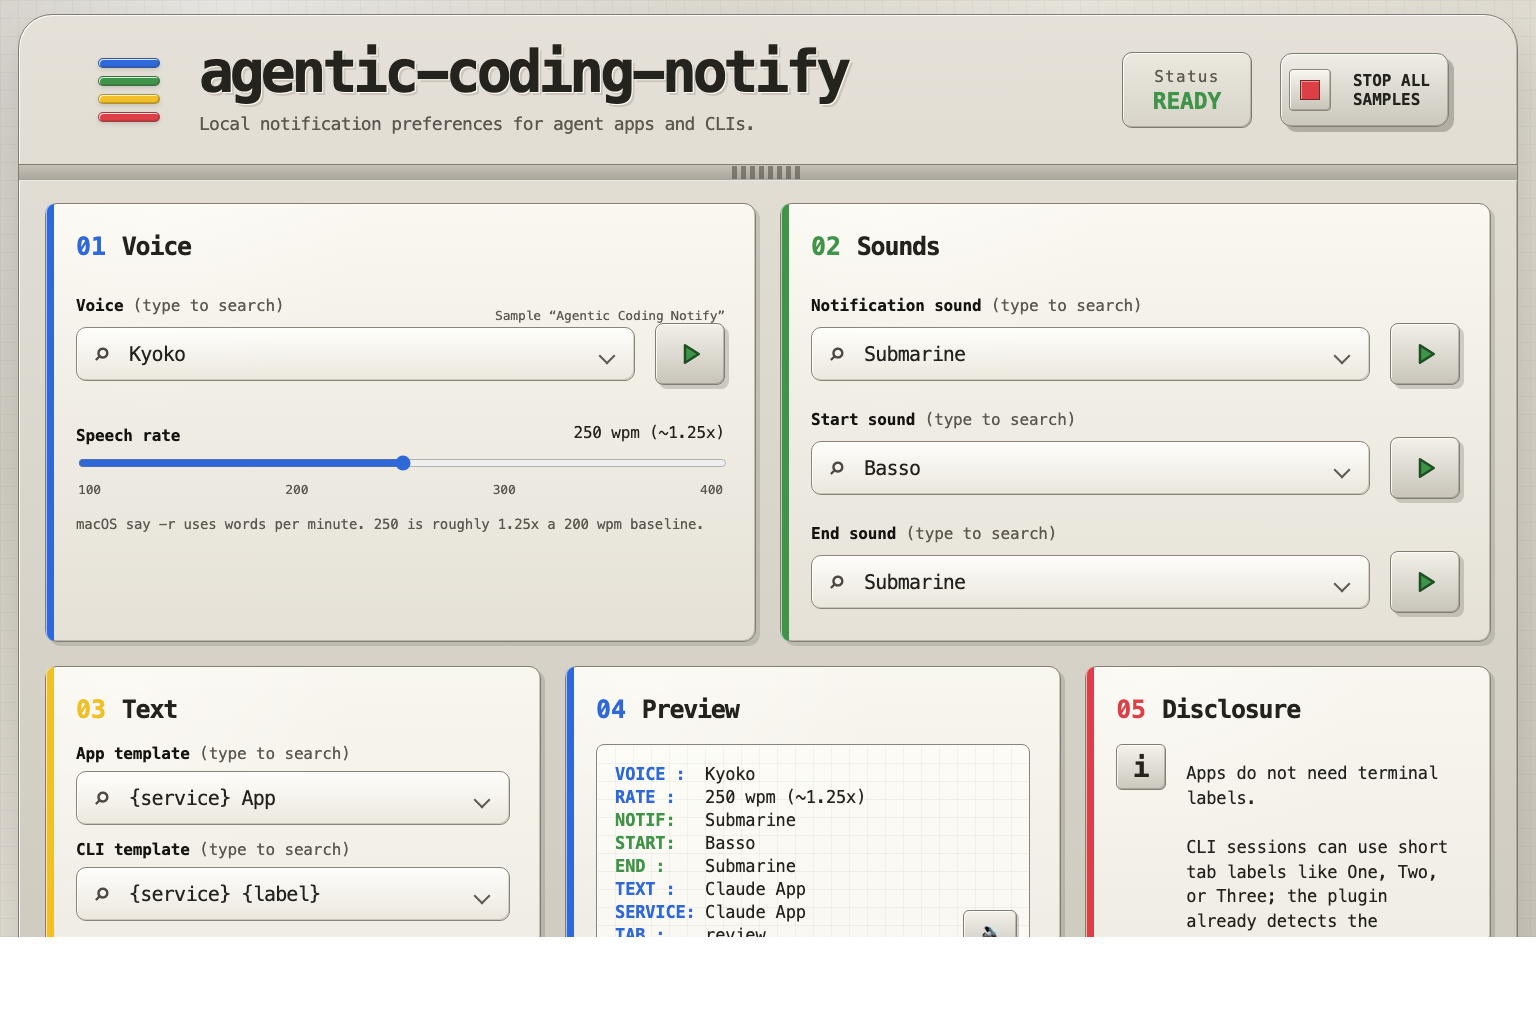
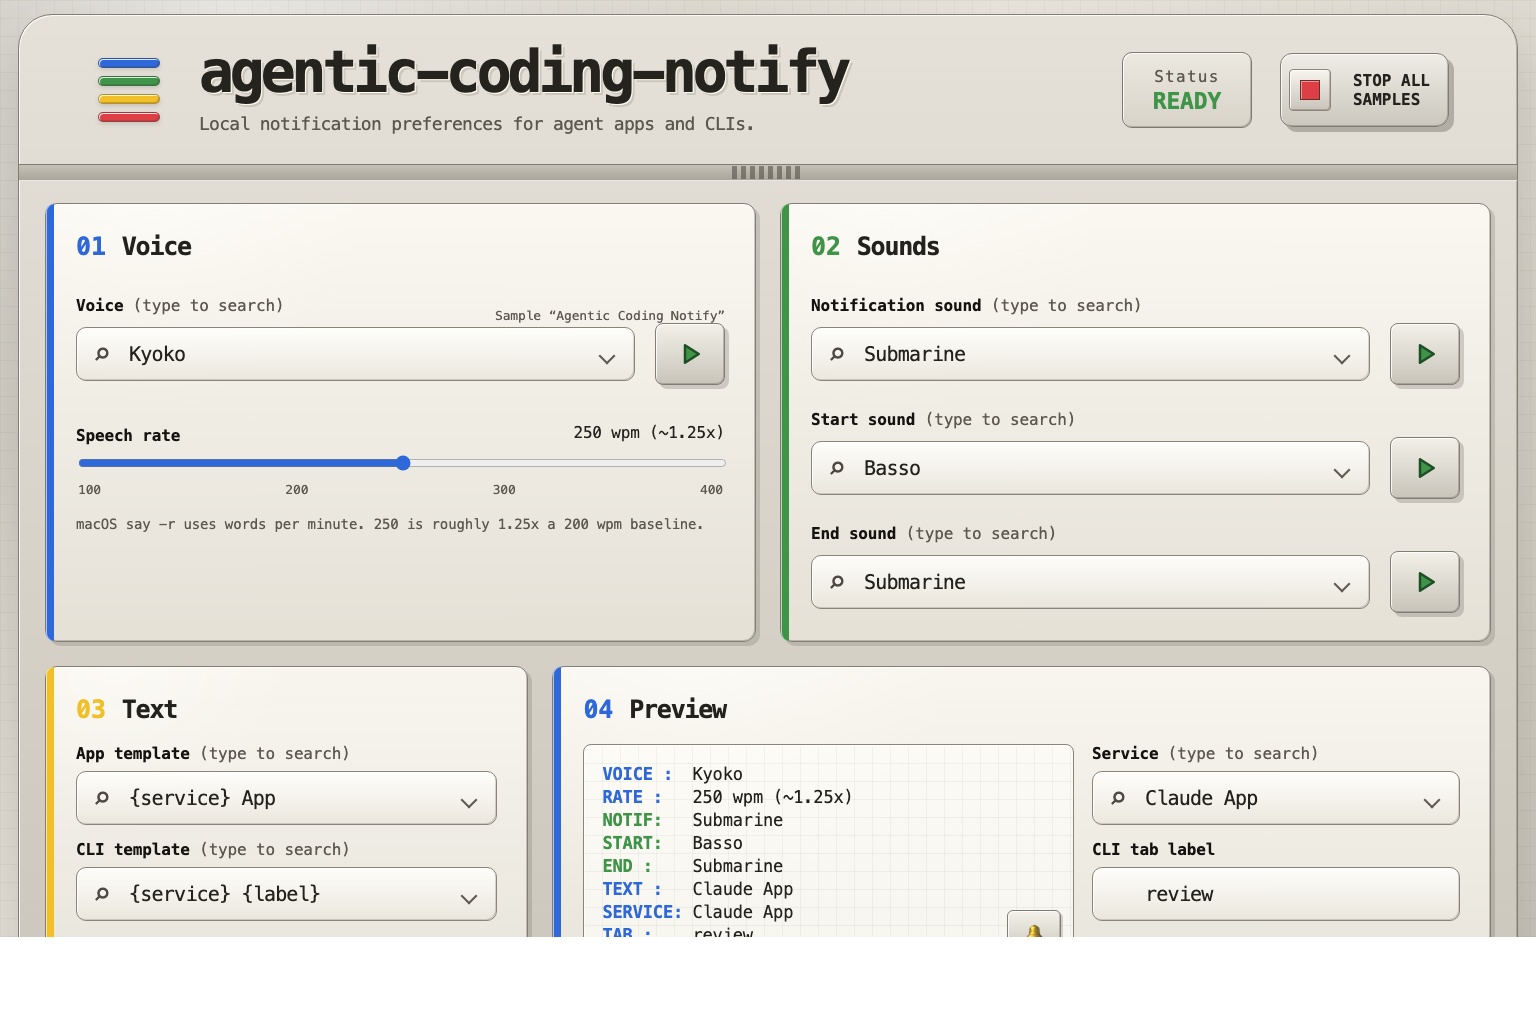
Fix notify preview layout

Changed region(s): [[0.625, 0.625, 0.9375, 0.9375], [0.3125, 0.625, 0.5625, 0.9375]]

diff --git a/web/notify_ui.py b/web/notify_ui.py
@@ -123,7 +123,7 @@ HTML = r"""
     .divider { height: 17px; border-top: 1px solid #817b70; border-bottom: 1px solid rgba(255,255,255,.62); background: linear-gradient(180deg, #c5c1b7, #aaa59a); position: relative; }
     .divider::after { content: ""; position: absolute; left: 50%; top: 1px; width: 72px; height: 13px; transform: translateX(-50%); background: repeating-linear-gradient(90deg, rgba(70,66,58,.52) 0 5px, transparent 5px 9px); }
     .deck { display: grid; grid-template-columns: 1fr 1fr; gap: 24px; padding: 22px 26px; }
-    .lower { grid-column: 1 / -1; display: grid; grid-template-columns: 1.1fr 1.1fr .9fr; gap: 24px; }
+    .lower { grid-column: 1 / -1; display: grid; grid-template-columns: .85fr 1.65fr; gap: 24px; }
     .panel {
       position: relative;
       padding: 28px 30px 28px;
@@ -140,7 +140,7 @@ HTML = r"""
     .panel.sounds { --accent-color: var(--green); }
     .panel.text { --accent-color: var(--yellow); }
     .panel.preview-card { --accent-color: var(--blue); }
-    .panel.disclosure { --accent-color: var(--red); }
+
     .panel-title { display: flex; align-items: baseline; gap: 16px; margin: 0 0 20px; font-family: var(--font-mono); }
     .panel-title .idx { color: var(--accent-color, var(--blue)); font-size: 25px; font-weight: 900; }
     .panel-title h2 { margin: 0; font-size: 25px; letter-spacing: -.05em; }
@@ -333,6 +333,36 @@ HTML = r"""
       visibility: visible;
       transform: translate(-50%, 0);
     }
+    .speaker-button[data-tooltip]::before,
+    .stop-top[data-tooltip]::before,
+    .footer .big-button[data-tooltip]:last-of-type::before {
+      left: auto;
+      right: 18px;
+      transform: translateY(4px);
+    }
+    .speaker-button[data-tooltip]::after,
+    .stop-top[data-tooltip]::after,
+    .footer .big-button[data-tooltip]:last-of-type::after {
+      left: auto;
+      right: 0;
+      width: 240px;
+      max-width: min(240px, calc(100vw - 32px));
+      transform: translateY(4px);
+    }
+    .speaker-button[data-tooltip]:hover::before,
+    .speaker-button[data-tooltip]:hover::after,
+    .speaker-button[data-tooltip]:focus-visible::before,
+    .speaker-button[data-tooltip]:focus-visible::after,
+    .stop-top[data-tooltip]:hover::before,
+    .stop-top[data-tooltip]:hover::after,
+    .stop-top[data-tooltip]:focus-visible::before,
+    .stop-top[data-tooltip]:focus-visible::after,
+    .footer .big-button[data-tooltip]:last-of-type:hover::before,
+    .footer .big-button[data-tooltip]:last-of-type:hover::after,
+    .footer .big-button[data-tooltip]:last-of-type:focus-visible::before,
+    .footer .big-button[data-tooltip]:last-of-type:focus-visible::after {
+      transform: translateY(0);
+    }
 	    .icon-button { width: 70px; height: 62px; display: grid; place-items: center; padding: 0; border: 1px solid #827d73; border-radius: 8px; background: linear-gradient(180deg, #f2f0e8, #c8c4ba); color: var(--green); box-shadow: var(--bevel), 4px 4px 0 rgba(74,70,63,.22); }
     .icon-button:hover { transform: translateY(-1px); }
     .icon-button svg { width: 30px; height: 30px; stroke: currentColor; stroke-width: 2; fill: none; stroke-linecap: round; stroke-linejoin: round; }
@@ -341,14 +371,17 @@ HTML = r"""
     .icon-button.is-playing { color: var(--red); }
     .icon-button.is-playing .play-icon { display: none; }
     .icon-button.is-playing .stop-icon { display: block; fill: currentColor; stroke: #6b2b26; }
+    .preview-grid { display: grid; grid-template-columns: minmax(0, 1fr) minmax(190px, .75fr); gap: 18px; align-items: start; }
     .preview-screen { position: relative; min-height: 204px; padding: 16px 68px 16px 18px; border: 1px solid #8a8479; border-radius: 8px; background-color: rgba(255,255,250,.62); background-image: linear-gradient(rgba(72,68,60,.06) 1px, transparent 1px), linear-gradient(90deg, rgba(72,68,60,.05) 1px, transparent 1px); background-size: 18px 18px; font: 17px var(--font-mono); box-shadow: inset 1px 1px 0 rgba(255,255,255,.82); }
+    .preview-fields { min-width: 0; }
+    .preview-fields label:first-child { margin-top: 0; }
     .preview-row { display: grid; grid-template-columns: 78px minmax(0,1fr); gap: 12px; margin: 3px 0; }
     .preview-row span { color: var(--blue); font-weight: 900; }
     .preview-row.green span { color: var(--green); }
     .preview-row b { font-weight: 500; overflow-wrap: anywhere; }
     .speaker-button { position: absolute; right: 12px; bottom: 10px; width: 54px; height: 44px; border: 1px solid #827d73; border-radius: 6px; background: linear-gradient(180deg, #f3f1e9, #cac6bc); box-shadow: var(--bevel), 2px 2px 0 rgba(74,70,63,.22); color: #302c26; }
-    .info-box { display: grid; grid-template-columns: 52px 1fr; gap: 18px; align-items: start; font: 17px/1.45 var(--font-mono); }
-    .info-icon { width: 50px; height: 46px; display: grid; place-items: center; border: 1px solid #837d72; border-radius: 6px; background: linear-gradient(180deg, #f4f2eb, #cbc7bd); box-shadow: var(--bevel); font: 900 28px var(--font-mono); }
+    .disclosure-line { grid-column: 1 / -1; display: grid; grid-template-columns: 42px 1fr; gap: 14px; align-items: center; margin-top: -4px; padding: 14px 18px; border: 1px solid #837d72; border-left: 8px solid var(--red); border-radius: 10px; background: linear-gradient(180deg, rgba(255,253,247,.78), rgba(226,222,212,.76)); box-shadow: var(--bevel), 3px 3px 0 rgba(74,70,63,.14); font: 14px/1.45 var(--font-mono); color: #403c35; }
+    .info-icon { width: 38px; height: 34px; display: grid; place-items: center; border: 1px solid #837d72; border-radius: 6px; background: linear-gradient(180deg, #f4f2eb, #cbc7bd); box-shadow: var(--bevel); font: 900 22px var(--font-mono); }
 	    .footer { display: grid; grid-template-columns: 80px repeat(5, minmax(0, 1fr)) 80px; gap: 22px; align-items: center; padding: 30px 28px; border-top: 1px solid #817b70; background: linear-gradient(180deg, #d7d3ca, #c5c0b5); }
 	    .vent { height: 66px; background: repeating-linear-gradient(180deg, #736e65 0 4px, transparent 4px 12px); opacity: .75; border-radius: 6px; }
 	    .big-button { min-width: 0; min-height: 76px; overflow: hidden; padding: 8px 8px; border: 1px solid #827d73; border-radius: 10px; box-shadow: var(--bevel), 5px 5px 0 rgba(74,70,63,.25); font-size: clamp(12px, .95vw, 16px); line-height: 1.08; text-align: center; text-transform: uppercase; display: flex; align-items: center; justify-content: center; gap: 8px; color: var(--ink); background: linear-gradient(180deg, #f1eee6, #c9c5bb); white-space: normal; }
@@ -411,6 +444,9 @@ HTML = r"""
           "stripes brand brand"
           "status status stop";
       }
+    }
+    @media (max-width: 520px) {
+      .preview-grid { grid-template-columns: 1fr; }
     }
     @media (max-width: 430px) {
       .topbar { grid-template-columns: 1fr; grid-template-areas: "stripes" "brand" "status" "stop"; }
@@ -526,33 +562,36 @@ HTML = r"""
 
         <section class="panel preview-card">
           <div class="panel-title"><span class="idx">04</span><h2>Preview</h2></div>
-          <div class="preview-screen">
-            <div class="preview-row"><span>VOICE :</span><b id="previewVoice"></b></div>
-            <div class="preview-row"><span>RATE :</span><b id="previewRate"></b></div>
-            <div class="preview-row green"><span>NOTIF:</span><b id="previewNotification"></b></div>
-            <div class="preview-row green"><span>START:</span><b id="previewStart"></b></div>
-            <div class="preview-row green"><span>END :</span><b id="previewEnd"></b></div>
-            <div class="preview-row"><span>TEXT :</span><b id="spokenPreview"></b></div>
-            <div class="preview-row"><span>SERVICE:</span><b id="previewService"></b></div>
-            <div class="preview-row"><span>TAB :</span><b id="previewTab"></b></div>
-	            <button class="speaker-button" title="Play voice preview" aria-label="Play voice sample from preview" data-tooltip="Play the current spoken preview using the selected voice and rate." onclick="playVoice()">🔊</button>
+          <div class="preview-grid">
+            <div>
+              <div class="preview-screen">
+                <div class="preview-row"><span>VOICE :</span><b id="previewVoice"></b></div>
+                <div class="preview-row"><span>RATE :</span><b id="previewRate"></b></div>
+                <div class="preview-row green"><span>NOTIF:</span><b id="previewNotification"></b></div>
+                <div class="preview-row green"><span>START:</span><b id="previewStart"></b></div>
+                <div class="preview-row green"><span>END :</span><b id="previewEnd"></b></div>
+                <div class="preview-row"><span>TEXT :</span><b id="spokenPreview"></b></div>
+                <div class="preview-row"><span>SERVICE:</span><b id="previewService"></b></div>
+                <div class="preview-row"><span>TAB :</span><b id="previewTab"></b></div>
+                <button class="speaker-button" title="Run full notification preview" aria-label="Run full notification preview" data-tooltip="Run the full notification flow: notification sound, start sound, spoken text, and end sound." onclick="testNotify(false)">🔔</button>
+              </div>
+              <p class="hint" id="soundPreview"></p>
+            </div>
+            <div class="preview-fields">
+              <label for="service">Service <span class="subtle">(type to search)</span></label>
+	            <div class="search-field combo-field" data-combo="services"><input id="service" class="combo-input" autocomplete="off" value="Claude App" placeholder="Type to filter services" /><div class="combo-list" role="listbox"></div></div>
+              <label for="label">CLI tab label</label>
+              <input id="label" value="review" />
+              <label for="message">Notification message</label>
+              <textarea id="message">Teste do agentic-coding-notify</textarea>
+            </div>
           </div>
-          <p class="hint" id="soundPreview"></p>
-          <label for="service">Service <span class="subtle">(type to search)</span></label>
-	          <div class="search-field combo-field" data-combo="services"><input id="service" class="combo-input" autocomplete="off" value="Claude App" placeholder="Type to filter services" /><div class="combo-list" role="listbox"></div></div>
-          <label for="label">CLI tab label</label>
-          <input id="label" value="review" />
-          <label for="message">Notification message</label>
-          <textarea id="message">Teste do agentic-coding-notify</textarea>
         </section>
 
-        <section class="panel disclosure">
-          <div class="panel-title"><span class="idx">05</span><h2>Disclosure</h2></div>
-          <div class="info-box">
-            <div class="info-icon">i</div>
-            <p>Apps do not need terminal labels.<br><br>CLI sessions can use short tab labels like <code>One</code>, <code>Two</code>, or <code>Three</code>; the plugin already detects the service.</p>
-          </div>
-        </section>
+        <aside class="disclosure-line" aria-label="Terminal label disclosure">
+          <div class="info-icon">i</div>
+          <p>Apps do not need terminal labels. CLI sessions can use short tab labels like <code>One</code>, <code>Two</code>, or <code>Three</code>; the plugin already detects the service.</p>
+        </aside>
       </div>
     </div>
 
